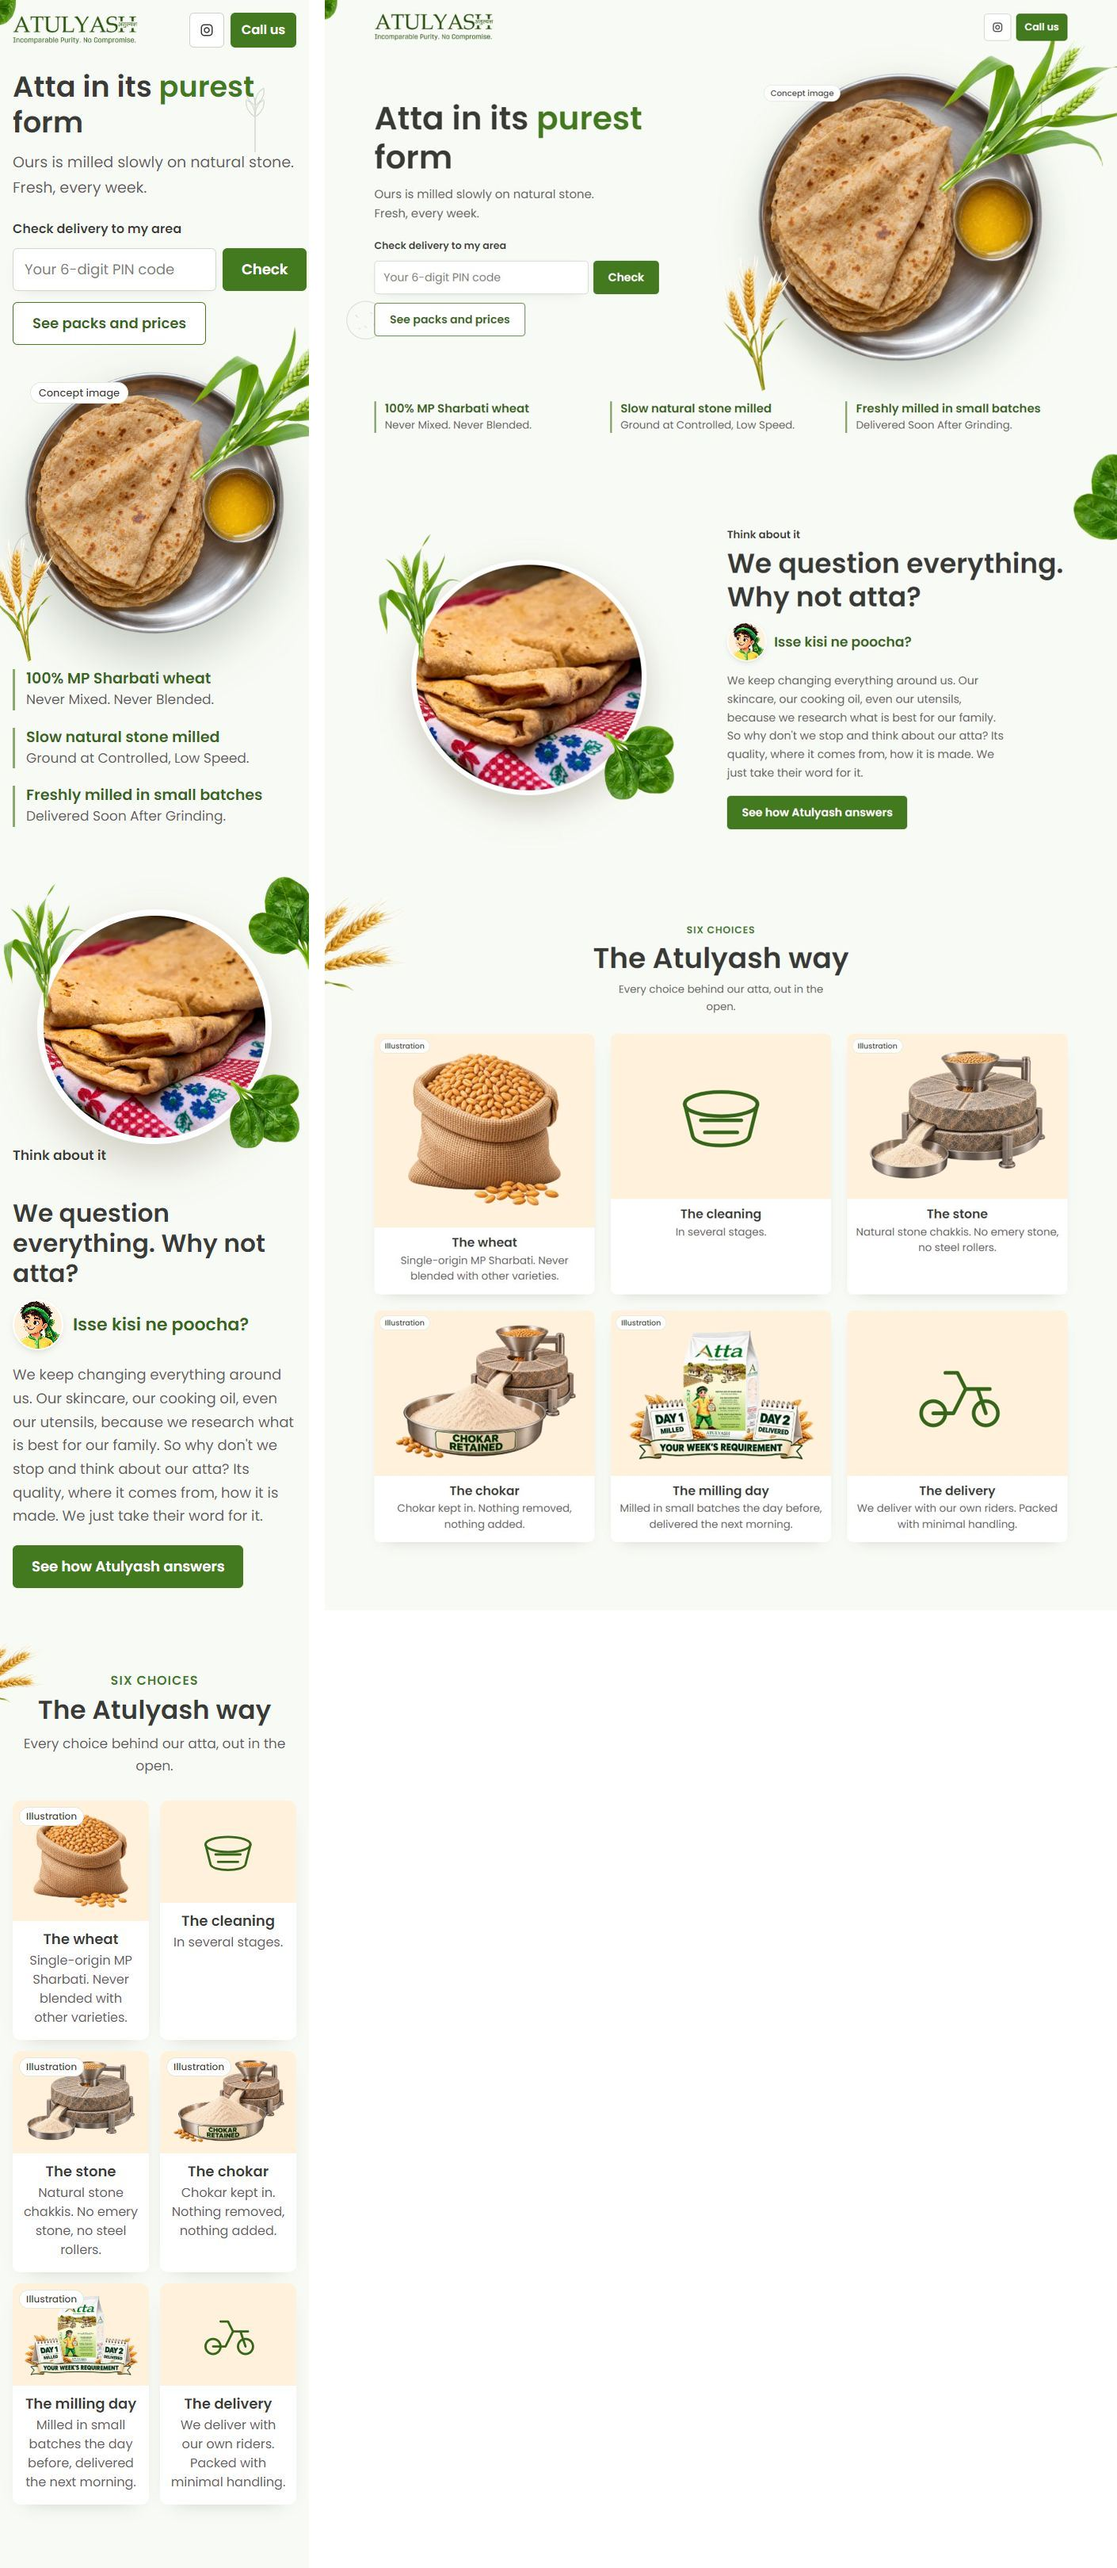
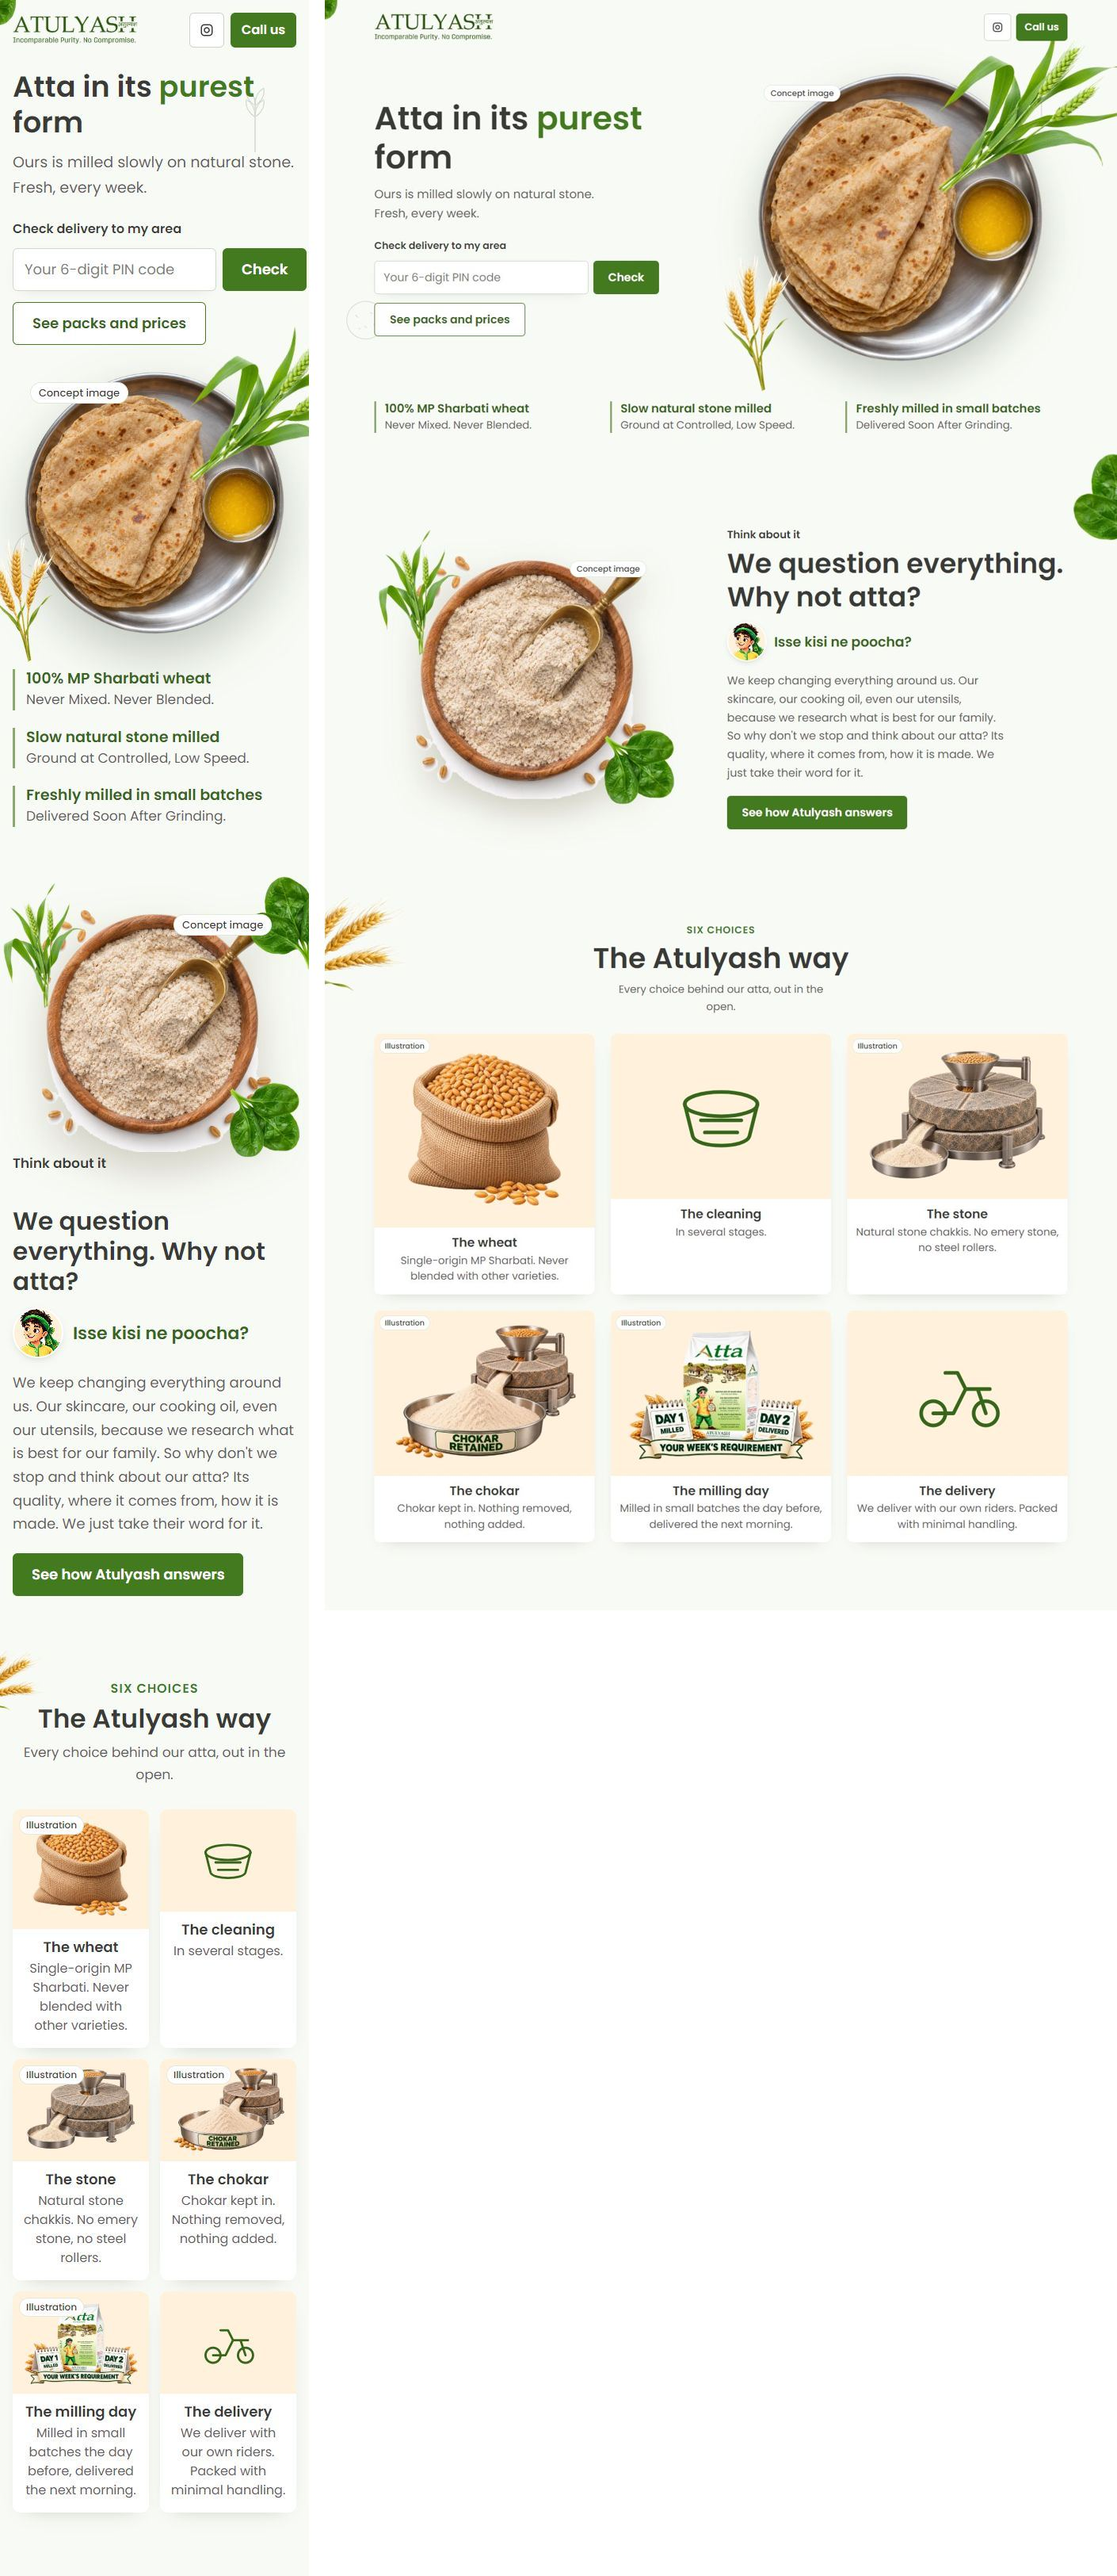
Use the best-looking image per slot, real or AI
D6 hero now a warm backlit wheat photo; D6 manifesto and D1 atta bowl
back to the AI images, labelled. Credits updated.

diff --git a/opening/6-golden-hour/index.html b/opening/6-golden-hour/index.html
@@ -23,7 +23,7 @@ h1,h2,h3{font-weight:400;letter-spacing:-.035em;line-height:1.02}
 
 /* hero */
 .hero{position:relative;min-height:min(190vw,860px);color:#fff;display:flex;flex-direction:column}
-.hero .bg{position:absolute;inset:0;width:100%;height:100%;object-fit:cover;object-position:60% 50%}
+.hero .bg{position:absolute;inset:0;width:100%;height:100%;object-fit:cover;object-position:50% 40%}
 .hero::before{content:"";position:absolute;inset:0;background:linear-gradient(180deg,rgba(18,28,8,.62),rgba(18,28,8,.28) 22%,rgba(18,28,8,.42) 45%,rgba(18,28,8,.55) 65%,rgba(18,28,8,.78))}
 .hero .label{right:16px;top:84px}
 .bar{position:relative;z-index:3;display:flex;justify-content:space-between;align-items:center;padding:18px 0}
@@ -108,7 +108,7 @@ img[src$="wordmark-white.png"]{filter:drop-shadow(0 1px 6px rgba(10,16,4,.75))}
 <body>
 <main>
 <section class="hero" aria-labelledby="h1">
-  <img class="bg" src="img/field-real.webp" alt="A golden wheat field at sunset">
+  <img class="bg" src="img/field-real.webp" alt="Ripe wheat backlit by the evening sun">
   <div class="wrap bar">
     <img src="../shared/wordmark-white.png" alt="Atulyash">
     <a class="cta-top" href="tel:+919818588996">Call us</a>
@@ -129,7 +129,8 @@ img[src$="wordmark-white.png"]{filter:drop-shadow(0 1px 6px rgba(10,16,4,.75))}
 </div>
 
 <section class="manifesto" aria-labelledby="h2m">
-  <img class="bg" src="img/closeup-real.webp" alt="">
+  <img class="bg" src="img/closeup.webp" alt="">
+  <span class="label">Concept image</span>
   <div class="wrap grid">
     <div class="pillbox glass">
       <h2 id="h2m">We question everything. Why not atta?</h2>

diff --git a/opening/1-rasoi-collage/index.html b/opening/1-rasoi-collage/index.html
@@ -154,9 +154,10 @@ header{position:relative;z-index:5}
   <img class="cut edge-r" src="img/leaf.webp" alt="">
   <div class="wrap grid">
     <div class="bowl">
-      <img class="atta round" src="img/roti-real.webp" alt="Fresh rotis on a cloth">
+      <img class="atta" src="img/atta-cut.webp" alt="A wooden bowl of whole wheat atta">
       <img class="cut lv1" src="img/leaves.webp" alt="">
       <img class="cut lv2" src="img/leaf.webp" alt="">
+      <span class="label">Concept image</span>
     </div>
     <div>
       <p class="kick">Think about it</p>

diff --git a/opening/CREDITS.md b/opening/CREDITS.md
@@ -4,8 +4,6 @@ Real photos used in these pages, all free for commercial use under the licence n
 
 | Used as | Source site | Photographer | Page URL | Licence |
 | --- | --- | --- | --- | --- |
-| 6-golden-hour/img/field-real.webp | Pexels | Meriç Tuna | [Source photo](https://www.pexels.com/photo/golden-wheat-field-at-sunset-30556704/) | Pexels License |
-| 6-golden-hour/img/closeup-real.webp | Pexels | Monique Buchholz | [Source photo](https://www.pexels.com/photo/golden-wheat-field-close-up-in-summer-evening-30594901/) | Pexels License |
-| 6-golden-hour/img/thumb-real.webp | Pexels | Annalise Annalise | [Source photo](https://www.pexels.com/photo/close-up-of-ripe-wheat-ears-in-a-field-17015110/) | Pexels License |
 | 2-the-pack-speaks/img/grains-real.webp | Pexels | Karyna Panchenko | [Source photo](https://www.pexels.com/photo/brown-wooden-spoon-with-brown-wheat-grains-11034657/) | Pexels License |
-| 1-rasoi-collage/img/roti-real.webp | Pexels | Usman Yousaf | [Source photo](https://www.pexels.com/photo/brown-bread-on-white-and-red-cloth-5589943/) | Pexels License |
+| 6-golden-hour/img/field-real.webp | Unsplash | Adriel Kloppenburg | [Source photo](https://unsplash.com/photos/closeup-photo-of-wheat-field-44RI_-X6eLk) | Unsplash License |
+| 6-golden-hour/img/thumb-real.webp | Pexels | Egor Komarov | [Source photo](https://www.pexels.com/photo/ripe-wheat-in-a-field-17707606/) | Pexels License |
